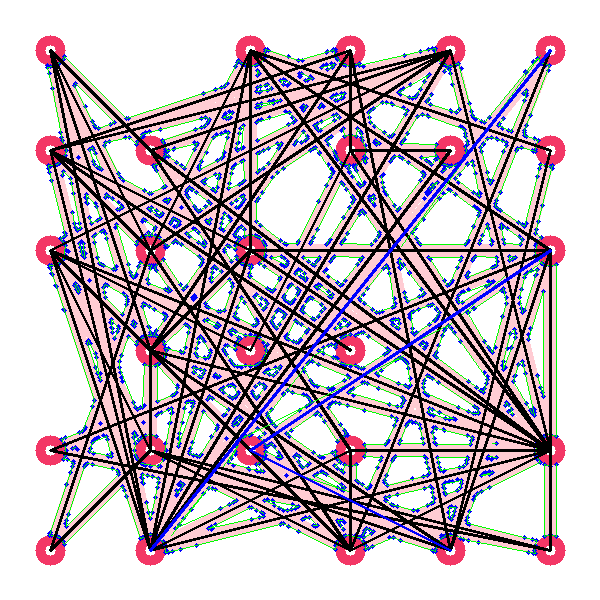
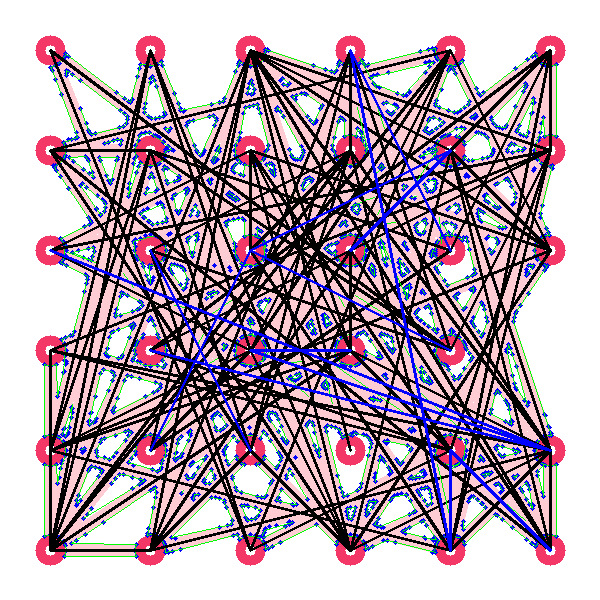
[feat] 修复了判题画图的bug

diff --git a/judge.py b/judge.py
@@ -70,7 +70,10 @@ def isEdgesContinuity(es):
 
 
 def drawPoints(img, pss):
-    _, _left, _right, __ = pss
+    _in, _left, _right, _ = pss
+    for p in _in:
+        cv2.circle(img, p, 15, (102, 55, 243), -1)
+        cv2.circle(img, p, 5, (255, 255, 255), -1)
     for p in _right:
         cv2.circle(img, p, 15, (102, 55, 243), -1)
     for p in _left:
@@ -108,8 +111,8 @@ def judge(img_path, answer_path, exec_path):
 
     ess = edgesCompare(answer['edges'], es_a)
 
-    drawPoints(img, nss)
     drawEdges(img, ess, answer['nodes'])
+    drawPoints(img, nss)
 
     print('Time: %.4fs' % (end - start))
 

diff --git a/generator.py b/generator.py
@@ -153,7 +153,7 @@ def generateImage(_point2pixel=100, _pSize=(3, 3), _pNumber=9, _ek=5):
 
 
 if __name__ == '__main__':
-    image = generateImage(100, (6, 6), 30, 5)
+    image = generateImage(100, (6, 6), 36, 5)
     plt.imshow(image[:, :, ::-1])
     plt.show()
     cv2.imwrite('images/test.png', image)
